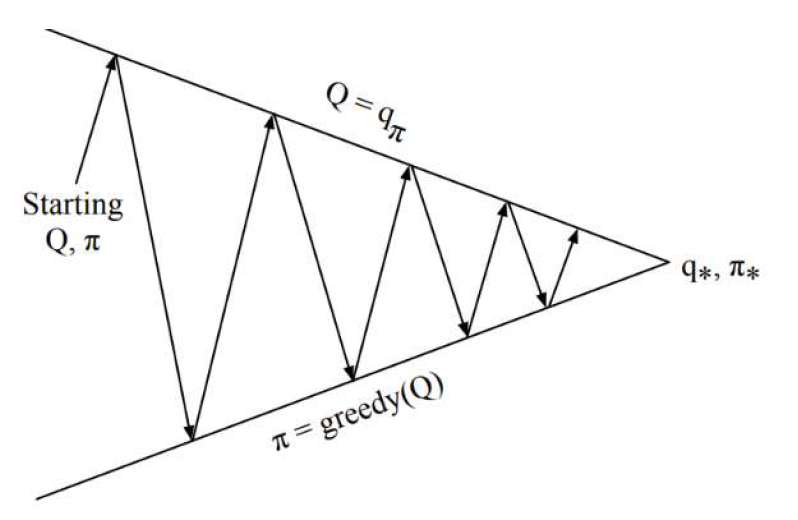
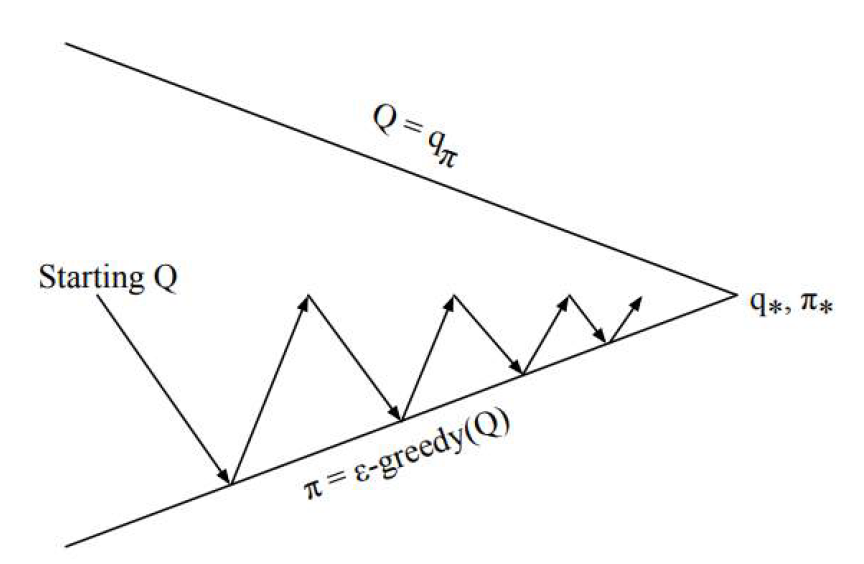
rl-5 wip

diff --git a/_posts/Class/Deep Reinforcement Learning/2026-10-18-rl-5.md b/_posts/Class/Deep Reinforcement Learning/2026-10-18-rl-5.md
@@ -33,10 +33,6 @@ $$\pi^{\ast}(s)=\arg\max_a Q(s,a)$$
 
 따라서 DP에서 사용했던 Greedy Policy Improvement 대신, Action Value Function $Q$를 기반으로 Policy Improvement를 수행해야 한다. 이 $Q$는 MC Learning을 통해 충분히 구할 수 있는 값인데, MC Learning에서 $V(S)$ 대신 $Q(S,A)$를 넣으면 동일하게 계산이 된다.
 
-![Model-free Policy Iteration](/assets/img/class/fall2026/rl_policy_iteration_model_free.png)
-
-따라서 위 그림과 같이 $Q$를 사용해 Policy Iteration을 수행하는 형태가 된다.
-
 
 ### $\epsilon$-Greedy Exploration
 
@@ -45,12 +41,48 @@ $$\pi^{\ast}(s)=\arg\max_a Q(s,a)$$
 
 이러한 문제를 해결하기 위해선 Exploration이 필요하다. $\epsilon$-Greedy Exploration은 이러한 Exploration 중 하나인데, 간단하게 작은 값 $\epsilon$을 설정해서, 이 $\epsilon$의 확률로는 랜덤한 Action을 수행하도록 만드는 방법이다.
 
-$$\pi^{\ast}(a\vert s)=\begin{cases}\arg\max_aQ(s,a) & \text{with}\,1-\epsilon\,\text{probability} \\ \text{any}\,\text{action}\,a & \text{with}\,\epsilon\,\text{probability} \end{cases}$$
-
-
+$$\pi^{\ast}(a\vert s)=\begin{cases}\arg\max_{a} Q(s,a) & \text{with}\,1-\epsilon\,\text{probability} \\ \text{any}\,\text{action}\,a & \text{with}\,\epsilon\,\text{probability} \end{cases}$$
 
 
 ### Greedy in the Limit with Infinite Exploration
+
+이 Monte-Carlo Control이 잘 수렴하기 위해서는 Greedy in the Limit with Infinite Exploration(GLIE) 조건을 만족해야 한다. GLIE는 다음의 2개 조건을 의미하며, 이들을 모두 만족해야 한다.
+
+$n\rightarrow\infty$일 때,
+
+- 모든 State-Action Pair는 각각 무한히 많이 방문되어야 한다.
+- Policy는 Greedy Policy에 수렴해야 한다. (Exploration이 포함되어도 최종적으론 Greedy Policy가 되어야 한다.)
+
+이들을 모두 만족하는 GLIE MC Control은 2번째 조건을 만족하기 위해 학습이 진행됨에 따라 $\epsilon$ 값을 점점 줄여 0에 수렴되게 한다.
+
+
+### Monte-Carlo Control
+
+이상의 내용을 종합하면 아래 사진과 같다.
+
+![Model-free Policy Iteration](/assets/img/class/fall2026/rl_policy_iteration_model_free.png)
+
+Policy Evaluation에는 Monte-Carlo Policy Evaluation을, Policy Improvement에는 $\epsilon$-Greedy Exploration을 사용한다.
+그런데 Monte-Carlo Learning은 Episode를 여러 번 수행하고 한번에 업데이트하는 방식이 아니라 매 Episode마다 업데이트를 수행한다.
+
+따라서 그러한 Incremental Policy Evaluation을 그대로 사용해서, 매 Episode마다 Policy를 Evaluation하고 그걸 바탕으로 $\epsilon$-Greedy Exploration을 수행하는 식으로 최적화를 할 수도 있다.
+
+
+전체 알고리즘을 정리하면 다음과 같다.
+
+1. Policy $\pi$: $\left{S_1A_1_R_1\ldots S_T\right}\sim\pi$를 사용해 Episode를 Sampling한다.
+
+2. 각각의 State $S_t$와 Action $A_t$에 대해, 다음과 같이 업데이트한다.
+
+   $$$N(S_tA_t)\leftarrow N(S_tA_t)+1$$
+
+   $$Q(S_tA_t)\leftarrow Q(S_tA_t)+\dfrac{1}{N(S_tA_t)}(G_t-Q(S_tA_t))$$
+
+3. 업데이트된 Action Value Function을 기반으로 Policy를 개선한다.
+
+   $$\epsilon\left\dfrac{1}{k}$$
+
+   $$\pi\leftarrow\epsilon-\text{greedy}(Q)$$
 
 
 ## Sarsa
